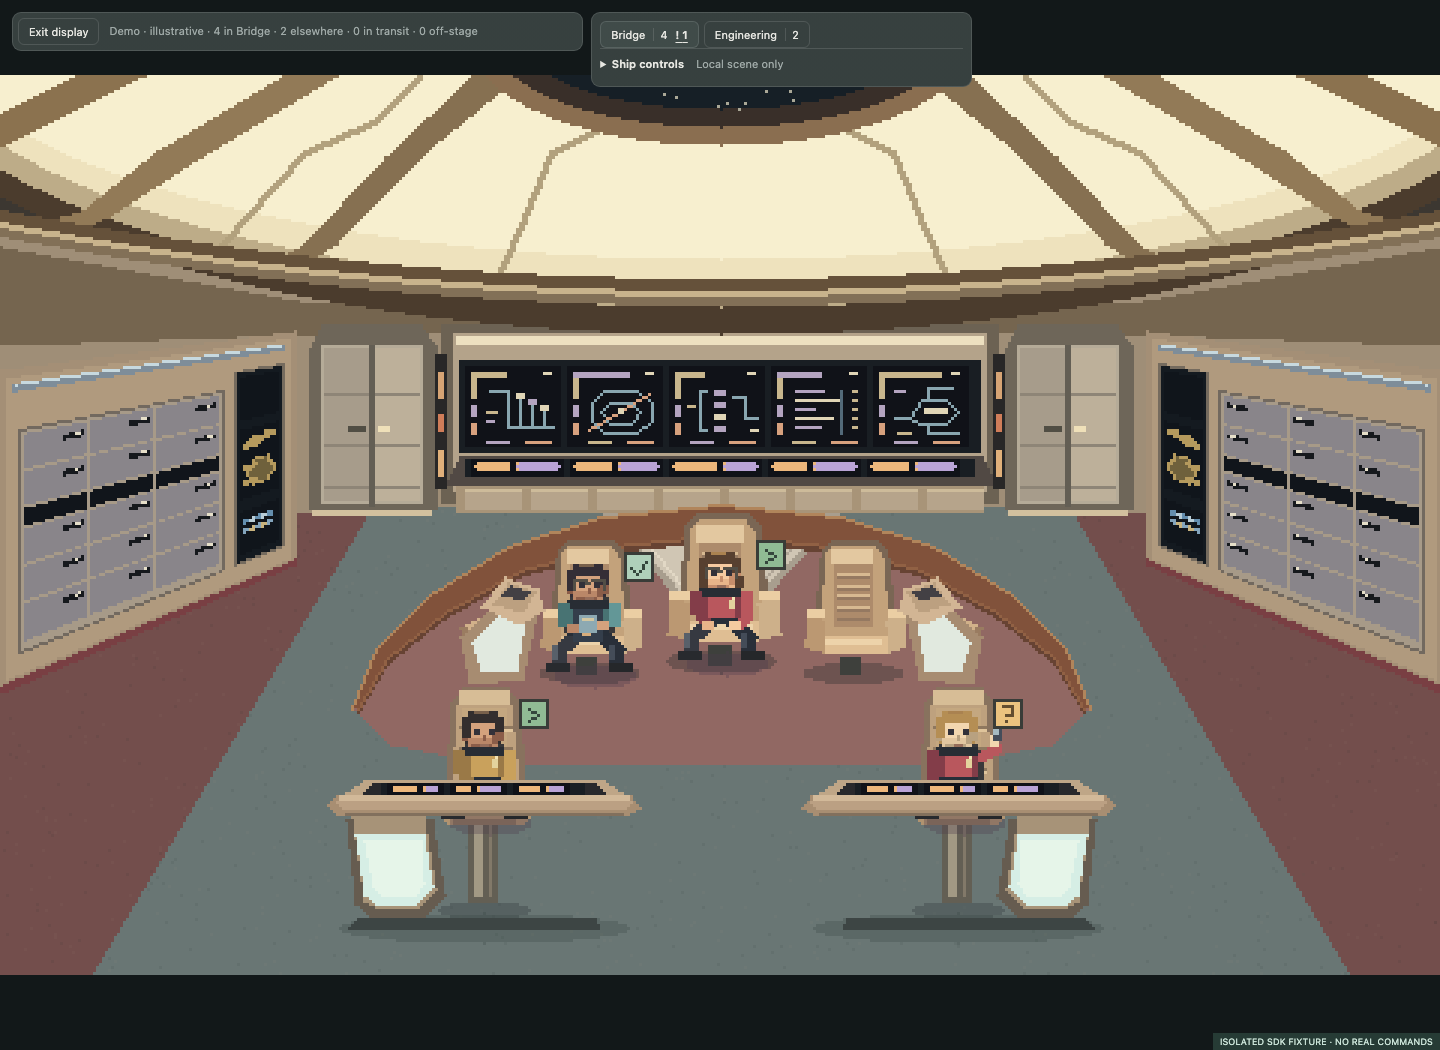
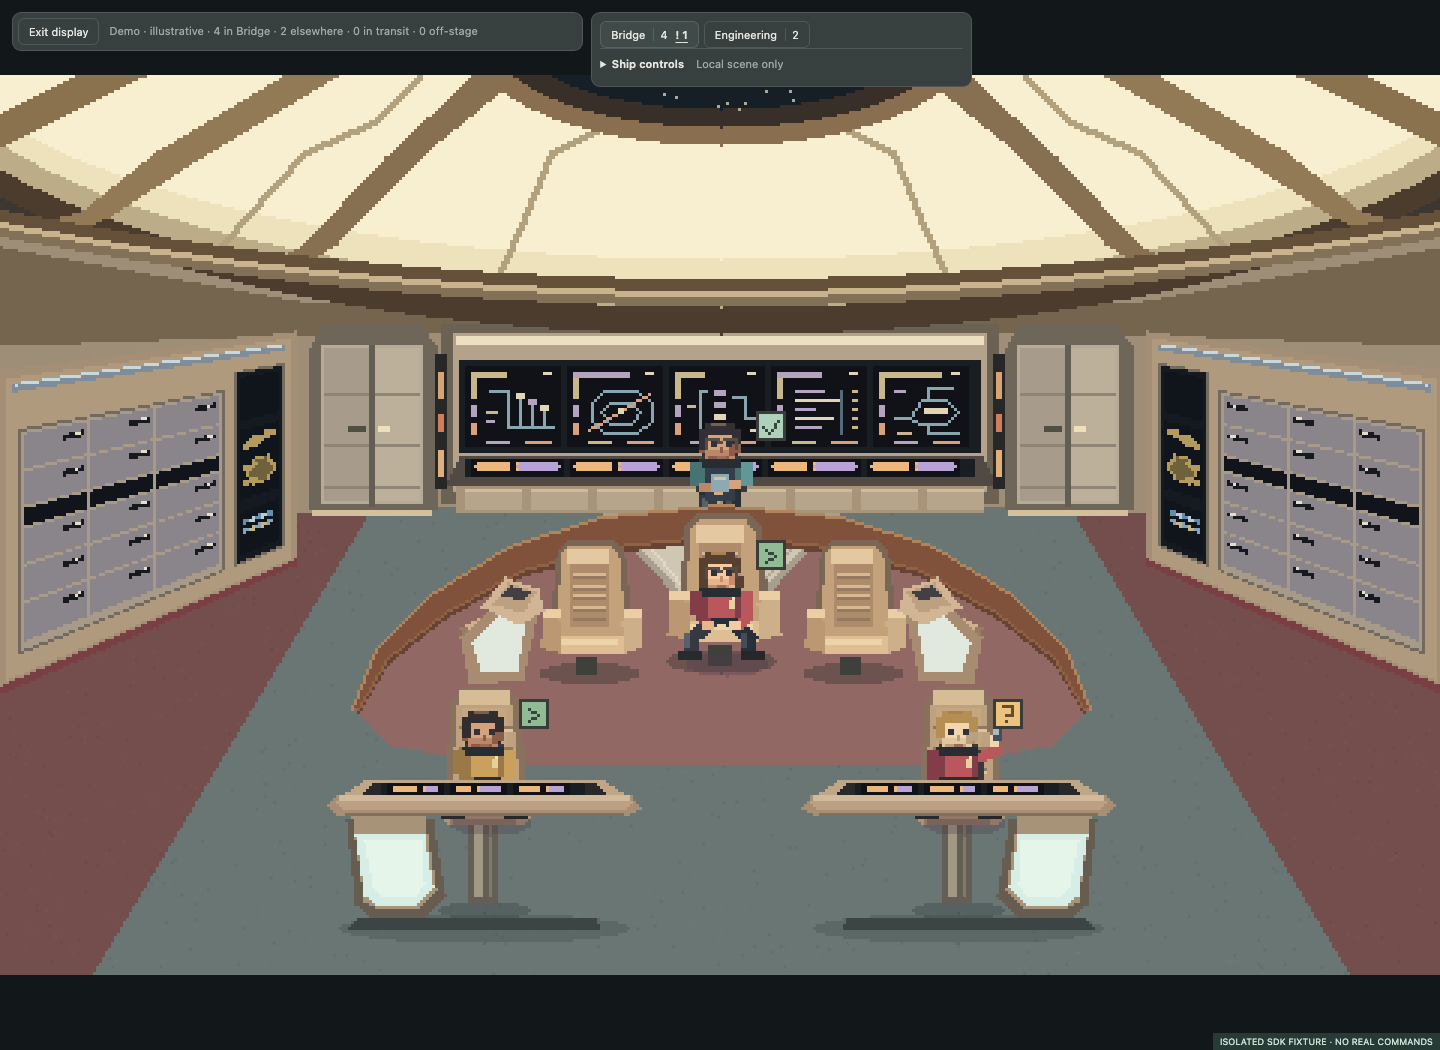
fix(bridge): staff tactical and aft consoles in v0.3.1

Changed region(s): [[0.375, 0.5181, 0.4688, 0.64], [0.4688, 0.3962, 0.5625, 0.4876]]

diff --git a/desktop/plugin.js b/desktop/plugin.js
@@ -1766,7 +1766,13 @@ var bridgeStations = [
   { slot: 4, route: [[284, 219], [146, 230], ...leftExit2], facing: "south" },
   { slot: 8, route: [[67, 216], ...leftExit2], facing: "west" },
   { slot: 9, route: [[413, 220], [381, 230], [381, 294], [99, 294], [99, 230], ...leftExit2], facing: "east" }
-].map(({ slot, stand, route, facing }, index) => ({ id: `bridge-${index}`, x: BRIDGE_ANCHORS[slot][0], y: BRIDGE_ANCHORS[slot][1], facing, seated: slot < 5, ...stand ? { stand } : {}, exitPath: route }));
+].map(({ slot, stand, route, facing }, index) => ({ id: `bridge-${index}`, x: BRIDGE_ANCHORS[slot][0], y: BRIDGE_ANCHORS[slot][1], facing, seated: slot < 5, priority: index < 3 ? index : index + 4, ...stand ? { stand } : {}, exitPath: route }));
+for (const [id, x, y, facing, priority, route] of [
+  ["tactical", 240, 152, "south", 3, [[226, 159], [123, 159], [123, 155]]],
+  ["aft-port", 184, 146, "north", 4, [[123, 159], [123, 155]]],
+  ["aft-center", 216, 146, "north", 5, [[216, 159], [123, 159], [123, 155]]],
+  ["aft-starboard", 296, 147, "north", 6, [[296, 166], [155, 166], [123, 155]]]
+]) bridgeStations.push({ id: `bridge-${id}`, x, y, facing, seated: false, priority, exitPath: route });
 var SHIP_ROOMS = Object.freeze({
   bridge: { id: "bridge", title: "Bridge", stations: bridgeStations, portal: { x: 123, y: 140, approach: [123, 155], rect: [103, 84, 42, 64] } },
   engineering: { id: "engineering", title: "Engineering", stations: ENGINEERING_STATIONS, portal: ENGINEERING_PORTAL }
@@ -2365,7 +2371,7 @@ function createWorld(canvas, { onSelect = () => {
         shipForegroundPainted = true;
       }
       while (layerIndex < layers.length && item.y >= layers[layerIndex].afterY) sc.drawImage(layers[layerIndex++].image, 0, 0);
-      if (bridge && item.y >= 160 && !railPainted) {
+      if (bridge && item.y >= (shipFrame ? 167 : 160) && !railPainted) {
         bridgeLayer("rail", drawBridgeRail);
         railPainted = true;
       }
@@ -2997,7 +3003,7 @@ function createShip({ rooms, storage = null } = {}) {
     }
   }
   function freeStation(p, room) {
-    return rooms[room].stations.find((s) => ![...p.records.values()].some((r) => r.room === room && r.station?.id === s.id) && !(p.trip?.to === room && p.trip.target.id === s.id));
+    return [...rooms[room].stations].sort((a, b) => (a.priority ?? 0) - (b.priority ?? 0)).find((s) => ![...p.records.values()].some((r) => r.room === room && r.station?.id === s.id) && !(p.trip?.to === room && p.trip.target.id === s.id));
   }
   function stationRecord(r, room, station) {
     Object.assign(r, { room, station, x: station.x, y: station.y, facing: station.facing || "south", seated: station.seated === true, phase: "station", walking: false, route: [] });

diff --git a/plugin.js b/plugin.js
@@ -1766,7 +1766,13 @@ var bridgeStations = [
   { slot: 4, route: [[284, 219], [146, 230], ...leftExit2], facing: "south" },
   { slot: 8, route: [[67, 216], ...leftExit2], facing: "west" },
   { slot: 9, route: [[413, 220], [381, 230], [381, 294], [99, 294], [99, 230], ...leftExit2], facing: "east" }
-].map(({ slot, stand, route, facing }, index) => ({ id: `bridge-${index}`, x: BRIDGE_ANCHORS[slot][0], y: BRIDGE_ANCHORS[slot][1], facing, seated: slot < 5, ...stand ? { stand } : {}, exitPath: route }));
+].map(({ slot, stand, route, facing }, index) => ({ id: `bridge-${index}`, x: BRIDGE_ANCHORS[slot][0], y: BRIDGE_ANCHORS[slot][1], facing, seated: slot < 5, priority: index < 3 ? index : index + 4, ...stand ? { stand } : {}, exitPath: route }));
+for (const [id, x, y, facing, priority, route] of [
+  ["tactical", 240, 152, "south", 3, [[226, 159], [123, 159], [123, 155]]],
+  ["aft-port", 184, 146, "north", 4, [[123, 159], [123, 155]]],
+  ["aft-center", 216, 146, "north", 5, [[216, 159], [123, 159], [123, 155]]],
+  ["aft-starboard", 296, 147, "north", 6, [[296, 166], [155, 166], [123, 155]]]
+]) bridgeStations.push({ id: `bridge-${id}`, x, y, facing, seated: false, priority, exitPath: route });
 var SHIP_ROOMS = Object.freeze({
   bridge: { id: "bridge", title: "Bridge", stations: bridgeStations, portal: { x: 123, y: 140, approach: [123, 155], rect: [103, 84, 42, 64] } },
   engineering: { id: "engineering", title: "Engineering", stations: ENGINEERING_STATIONS, portal: ENGINEERING_PORTAL }
@@ -2365,7 +2371,7 @@ function createWorld(canvas, { onSelect = () => {
         shipForegroundPainted = true;
       }
       while (layerIndex < layers.length && item.y >= layers[layerIndex].afterY) sc.drawImage(layers[layerIndex++].image, 0, 0);
-      if (bridge && item.y >= 160 && !railPainted) {
+      if (bridge && item.y >= (shipFrame ? 167 : 160) && !railPainted) {
         bridgeLayer("rail", drawBridgeRail);
         railPainted = true;
       }
@@ -2997,7 +3003,7 @@ function createShip({ rooms, storage = null } = {}) {
     }
   }
   function freeStation(p, room) {
-    return rooms[room].stations.find((s) => ![...p.records.values()].some((r) => r.room === room && r.station?.id === s.id) && !(p.trip?.to === room && p.trip.target.id === s.id));
+    return [...rooms[room].stations].sort((a, b) => (a.priority ?? 0) - (b.priority ?? 0)).find((s) => ![...p.records.values()].some((r) => r.room === room && r.station?.id === s.id) && !(p.trip?.to === room && p.trip.target.id === s.id));
   }
   function stationRecord(r, room, station) {
     Object.assign(r, { room, station, x: station.x, y: station.y, facing: station.facing || "south", seated: station.seated === true, phase: "station", walking: false, route: [] });

diff --git a/src/ship-layout.js b/src/ship-layout.js
@@ -14,7 +14,21 @@ const bridgeStations=[
  {slot:4,route:[[284,219],[146,230],...leftExit],facing:'south'},
  {slot:8,route:[[67,216],...leftExit],facing:'west'},
  {slot:9,route:[[413,220],[381,230],[381,294],[99,294],[99,230],...leftExit],facing:'east'},
-].map(({slot,stand,route,facing},index)=>({id:`bridge-${index}`,x:BRIDGE_ANCHORS[slot][0],y:BRIDGE_ANCHORS[slot][1],facing,seated:slot<5,...(stand?{stand}:{}),exitPath:route}));
+].map(({slot,stand,route,facing},index)=>({id:`bridge-${index}`,x:BRIDGE_ANCHORS[slot][0],y:BRIDGE_ANCHORS[slot][1],facing,seated:slot<5,priority:index<3?index:index+4,...(stand?{stand}:{}),exitPath:route}));
+// Keep legacy seat identities/anchors intact. Staff the working watch before
+// companion chairs, and use the side equipment bays only as overflow.
+// Aft-bank watch stands on the floor strip behind the horseshoe: feet at the
+// wall base (y≈146), lower body hidden by the rail/tactical support layer,
+// torso and head above it like the reference bridge. Tactical faces the
+// captain's chair; the rear computer operators face away, at their consoles.
+// Exits walk behind the rail west to the lift. Starboard takes the deeper
+// y166 lane to clear the occupied tactical post without moving its anchor.
+for(const [id,x,y,facing,priority,route] of [
+ ['tactical',240,152,'south',3,[[226,159],[123,159],[123,155]]],
+ ['aft-port',184,146,'north',4,[[123,159],[123,155]]],
+ ['aft-center',216,146,'north',5,[[216,159],[123,159],[123,155]]],
+ ['aft-starboard',296,147,'north',6,[[296,166],[155,166],[123,155]]],
+])bridgeStations.push({id:`bridge-${id}`,x,y,facing,seated:false,priority,exitPath:route});
 export const SHIP_ROOMS=Object.freeze({
  bridge:{id:'bridge',title:'Bridge',stations:bridgeStations,portal:{x:123,y:140,approach:[123,155],rect:[103,84,42,64]}},
  engineering:{id:'engineering',title:'Engineering',stations:ENGINEERING_STATIONS,portal:ENGINEERING_PORTAL},

diff --git a/src/ship.js b/src/ship.js
@@ -35,7 +35,7 @@ export function createShip({rooms,storage=null}={}){
  }
  function persist(){try{storage?.set('ship-settings-v1',{room:settings.room,night:settings.night,energy:settings.energy});}catch{/* Still usable for this session. */}}
  function freeStation(p,room){
-  return rooms[room].stations.find(s=>![...p.records.values()].some(r=>r.room===room&&r.station?.id===s.id)&&!(p.trip?.to===room&&p.trip.target.id===s.id));
+  return [...rooms[room].stations].sort((a,b)=>(a.priority??0)-(b.priority??0)).find(s=>![...p.records.values()].some(r=>r.room===room&&r.station?.id===s.id)&&!(p.trip?.to===room&&p.trip.target.id===s.id));
  }
  function stationRecord(r,room,station){Object.assign(r,{room,station,x:station.x,y:station.y,facing:station.facing||'south',seated:station.seated===true,phase:'station',walking:false,route:[]});}
  function place(p,r){

diff --git a/src/world.js b/src/world.js
@@ -104,7 +104,7 @@ export function createWorld(canvas,{onSelect=()=>{},onMetrics=()=>{},ship=null}=
   for(const item of sorted){
    if(shipForeground&&!shipForegroundPainted&&item.y>=shipForeground.afterY){bridgeLayer(shipForeground.name,shipForeground.draw);shipForegroundPainted=true;}
    while(layerIndex<layers.length&&item.y>=layers[layerIndex].afterY)sc.drawImage(layers[layerIndex++].image,0,0);
-   if(bridge&&item.y>=160&&!railPainted){bridgeLayer('rail',drawBridgeRail);railPainted=true;}
+   if(bridge&&item.y>=(shipFrame?167:160)&&!railPainted){bridgeLayer('rail',drawBridgeRail);railPainted=true;}
    if(bridge&&shipFrame&&item.y>=286&&!helmPainted){bridgeLayer('helm',drawBridgeHelm);helmPainted=true;}
    drawAgent(sc,item,style,t,item.agent.id===state.selectedId);
   }

diff --git a/README.md b/README.md
@@ -4,11 +4,15 @@
 
 ![Office Space, Kitten Café and a split Bridge–Engineering feature graphic, using demonstration agents](docs/images/starter-realms.png)
 
-**Public alpha · v0.3.0** · **[Browse & download realms](realms/README.md)** · [Get the plugin](https://github.com/cygnostik/pd-pixel-worlds/releases) · [Create a realm](docs/realms.md) · [Submit a realm](https://github.com/cygnostik/pd-pixel-worlds/issues/new?template=realm-submission.yml)
+**Public alpha · v0.3.1** · **[Browse & download realms](realms/README.md)** · [Get the plugin](https://github.com/cygnostik/pd-pixel-worlds/releases) · [Create a realm](docs/realms.md) · [Submit a realm](https://github.com/cygnostik/pd-pixel-worlds/issues/new?template=realm-submission.yml)
 
 [![Checks](https://github.com/cygnostik/pd-pixel-worlds/actions/workflows/ci.yml/badge.svg)](https://github.com/cygnostik/pd-pixel-worlds/actions/workflows/ci.yml) · [Install](#install-in-hermes-desktop) · [Use it](#use-it) · [Create a realm](#create-and-share-realms) · [MIT](LICENSE)
 
 ## Three starter realms
+
+**Updated in v0.3.1:** the bridge fills tactical and up to three aft computer
+stations before the side equipment bays. Tactical stands behind the horseshoe
+rail, and aft crew stay off the displays and keyboard ledge.
 
 **New in v0.3.0:** a built-in TNG ship with Bridge and Main Engineering,
 refined instruments and local crew placement. Use the room buttons and
@@ -84,7 +88,7 @@ profile argument. [Installation and compatibility details →](docs/install.md)
 - **Display mode** gives the realm the pane without the dashboard. Reveal the small controls with hover or keyboard focus; use **Exit display** or **Escape** to return.
 - Select an agent for details and native session navigation. Search includes session identifiers.
 - Pause animation or enable reduced motion. Scenes stop animating while hidden.
-- The roster keeps all observed agents. Office/café and imports use twelve-person scene pages; the TNG ship has seven Bridge and eight Engineering stations, with separate elsewhere/transit/off-stage counts.
+- The roster keeps all observed agents. Office/café and imports use twelve-person scene pages; the TNG ship has eleven Bridge and eight Engineering stations, with separate elsewhere/transit/off-stage counts.
 
 ![PW Agents showing the TNG-inspired bridge with an explicitly illustrative crew](docs/images/pw-agents.png)
 

diff --git a/docs/install.md b/docs/install.md
@@ -23,8 +23,10 @@ hermes plugins enable pixel-worlds
 
 Open **Pixel Worlds** or **PW Agents** from the Desktop sidebar or command palette.
 The manifest declares only a desktop component: no tools, hooks, Python dependencies
-or environment credentials. Official catalog availability is pending; the command
-above uses the public source repository, not a catalog entry.
+or environment credentials. Pixel Worlds is also in the official catalog:
+`hermes plugins install pixel-worlds` installs its reviewed pin. Catalog updates
+require maintainer review and may lag the latest GitHub release. The command
+above uses the public source repository instead of the catalog pin.
 
 The native package contains `desktop/plugin.js`, identical to the standalone
 `plugin.js`. Current Hermes materializes the desktop half into its app plugin root
@@ -56,7 +58,9 @@ through it. No dependencies are needed to run the installer, only Node.js 22+.
 
 ## Updates and rollback
 
-Run the installer from the new version. Existing files move to
+For a catalog installation, use `hermes plugins update pixel-worlds` when the
+reviewed update is available. For a standalone installation, run the installer
+from the new version. Existing files move to
 `<HERMES_HOME>/plugin-backups/pixel-worlds-<timestamp>-<process>` before replacement.
 The output gives the exact backup path. No-op installs do not create a backup.
 

diff --git a/docs/architecture.md b/docs/architecture.md
@@ -59,8 +59,9 @@ and DPR-correct hit regions. Selection callbacks receive an agent ID.
 
 Office/café and imported-v1 art capacity is twelve; the UI owns paging and
 exposes off-stage counts. The built-in TNG ship instead uses one shared local
-`createShip` presentation store: seven bridge stations, eight Engineering
-stations (15 total). The chief engineer's office artwork remains dormant in
+`createShip` presentation store: eleven bridge stations, eight Engineering
+stations (19 total). Bridge allocation fills command/helm, tactical, then three
+aft computer stations before companion chairs and side-bay overflow. The chief engineer's office artwork remains dormant in
 source: no allocation, navigation, transfers, idle visits or tea action reach it.
 Saved office preferences fall back to Bridge. Full rosters—not filtered or
 paged slices—feed that store. Other-room, transit and off-stage counts are
